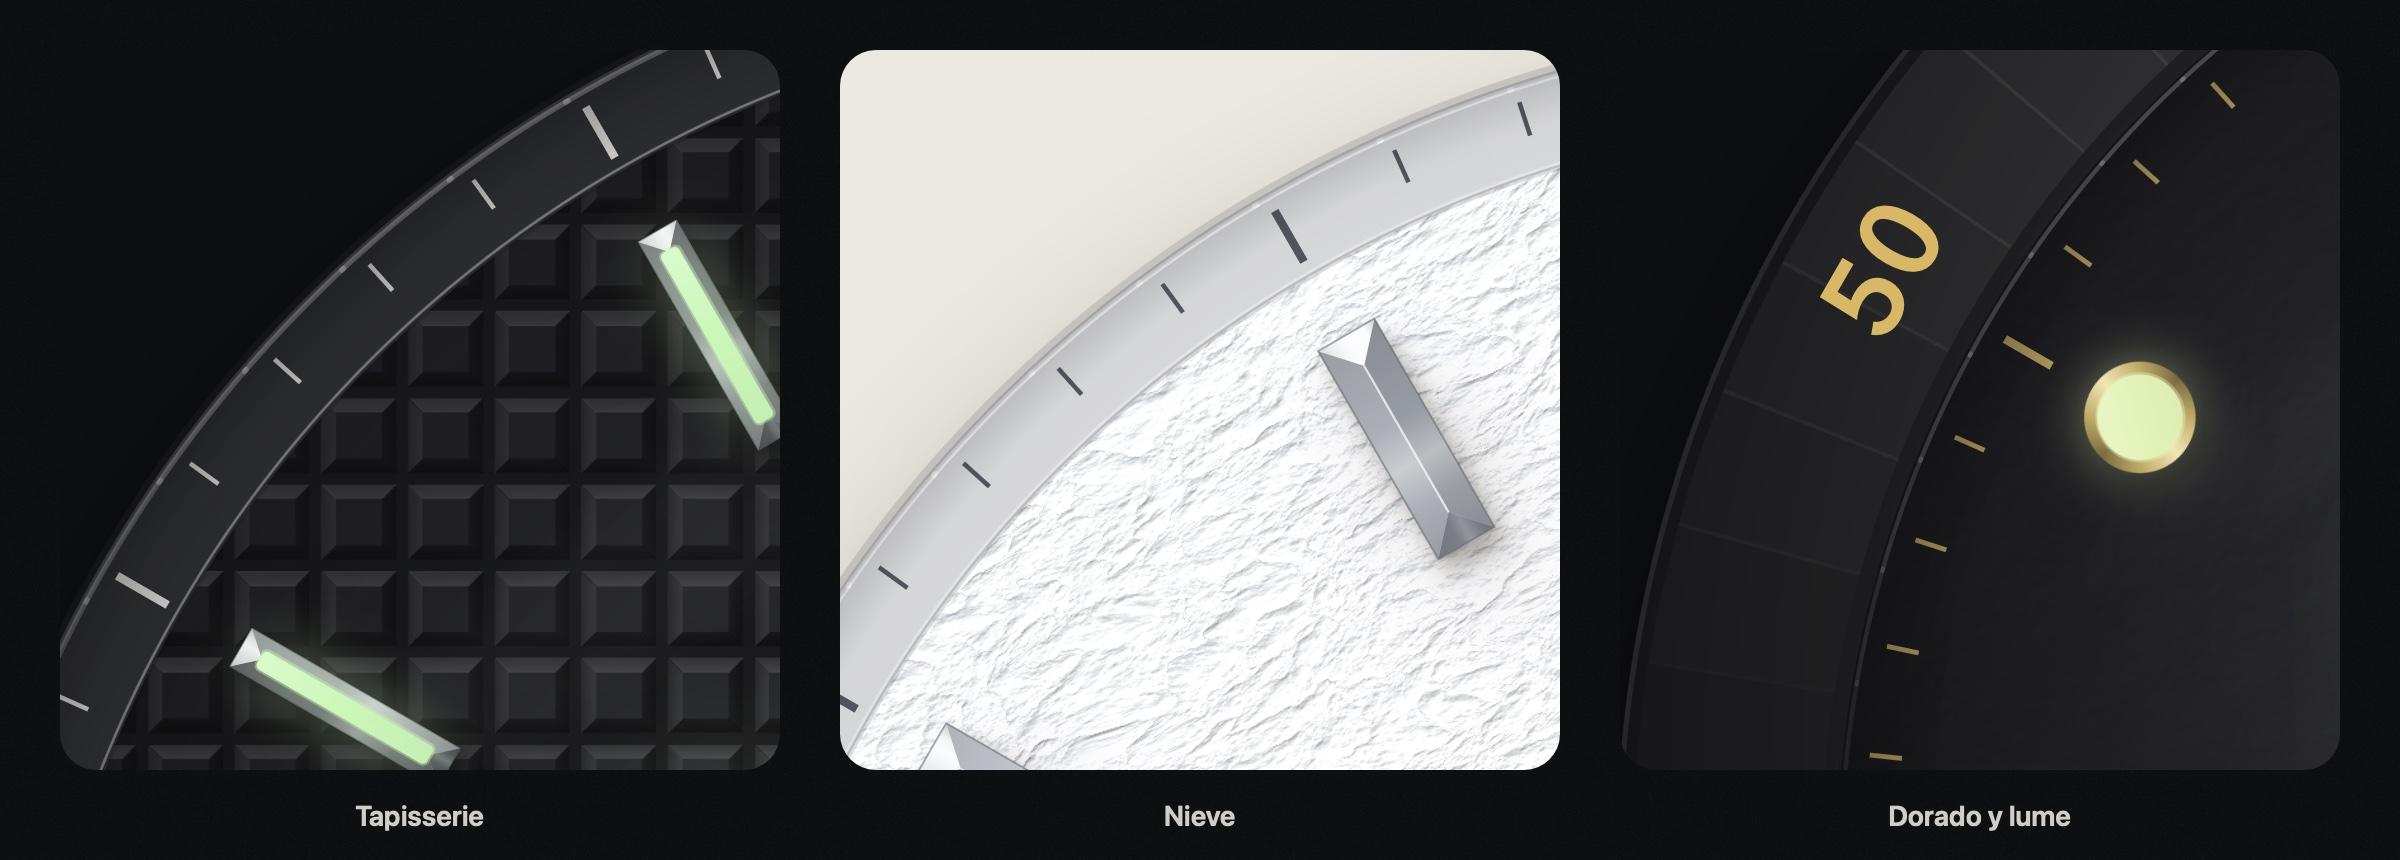
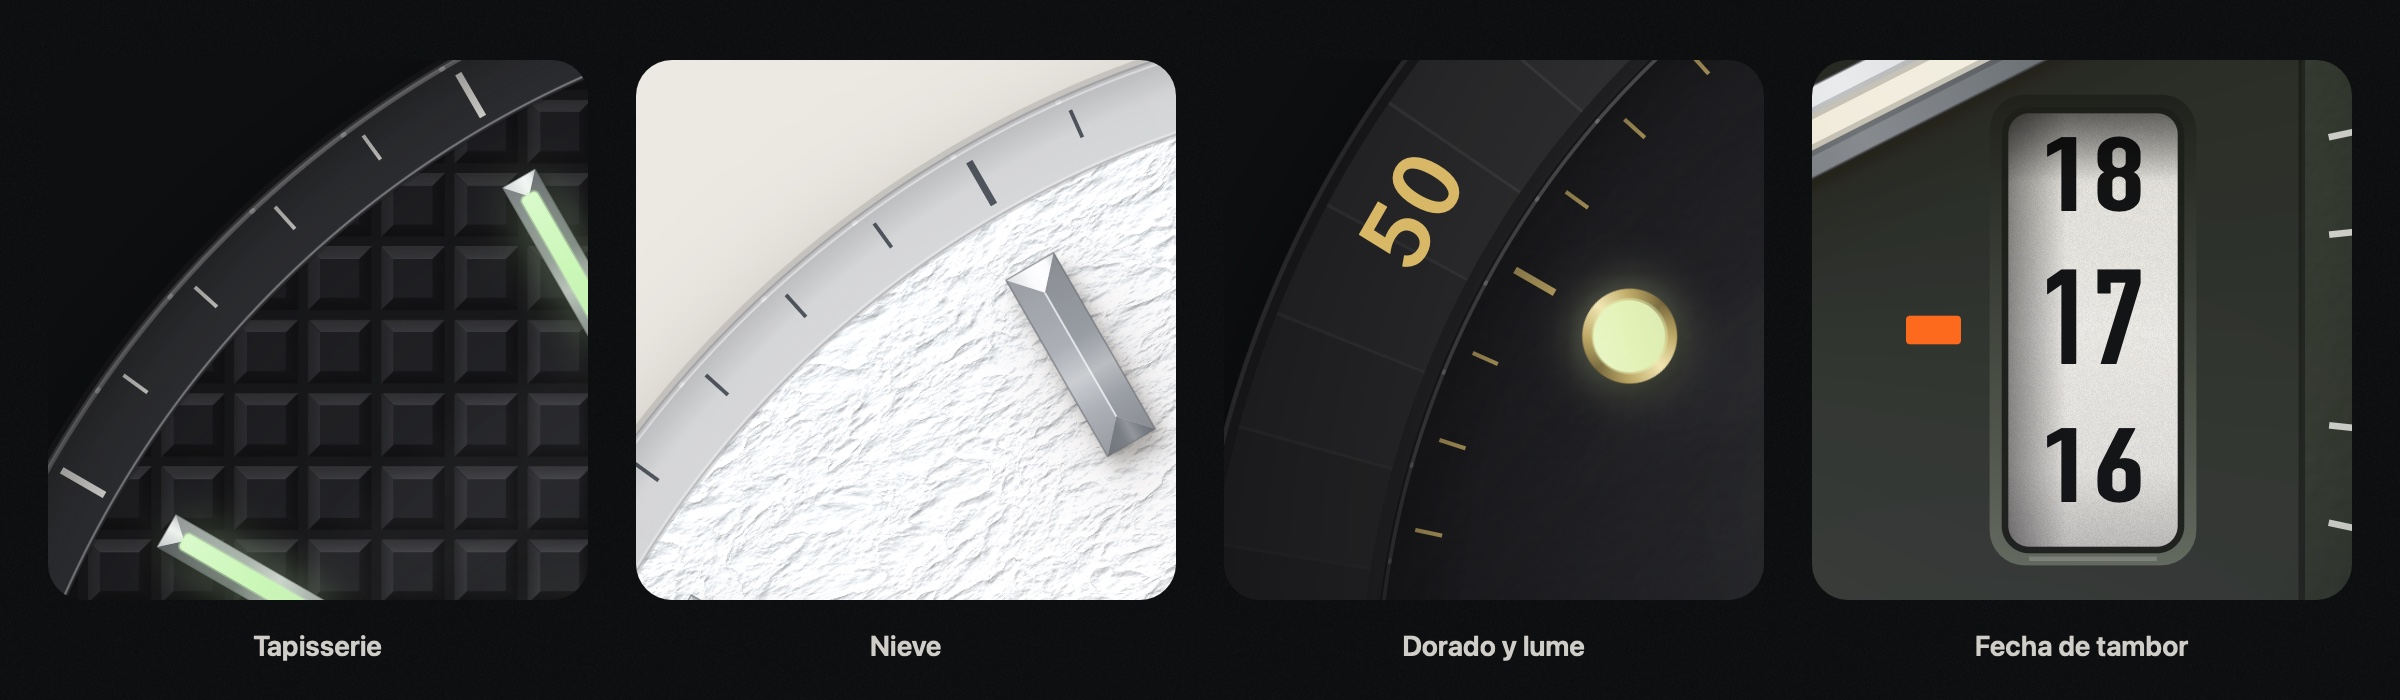
README images refreshed for v1.1.0, Octo G drum date in the macro set

diff --git a/docs/poster.html b/docs/poster.html
@@ -114,18 +114,19 @@
       },
 
       // Macro: textures rendered on the GPU, seen up close.
-      macro(w = 2400, h = 860) {
+      macro(w = 2400, h = 700) {
         const c = canvas(w, h), ctx = c.getContext('2d');
         scene(ctx, w, h, true, 'solid', w / 2, h / 2, h, undefined, '#0e0f11');
         const tiles = [
           ['octagon', true, 'Tapisserie', [-0.62, -0.62]],
           ['snowfield', false, T('Snow', 'Nieve'), [-0.55, -0.7]],
           ['giltDiver', true, T('Gilt and lume', 'Dorado y lume'), [-0.72, -0.35]],
+          ['octoG', false, T('Drum date', 'Fecha de tambor'), [0.6, 0]],
         ];
-        const size = 720, gap = (w - size * 3) / 4, R = 1300;
+        const size = 540, gap = (w - size * tiles.length) / (tiles.length + 1), R = 1100;
         tiles.forEach(([id, dark, name, [fx, fy]], i) => {
           const tile = canvas(size, size), tc = tile.getContext('2d');
-          tc.fillStyle = dark ? '#0e0f11' : '#ece9e3';
+          tc.fillStyle = id === 'octoG' ? '#2a2d27' : dark ? '#0e0f11' : '#ece9e3';
           tc.fillRect(0, 0, size, size);
           E.renderWatch(tc, size / 2 - fx * R, size / 2 - fy * R, R, cfgOf(id, { wordmark: '', subline: '', emblem: 'none' }), dark, at(10, 10));
           const x = gap + i * (size + gap), y = (h - size) / 2 - 20;
